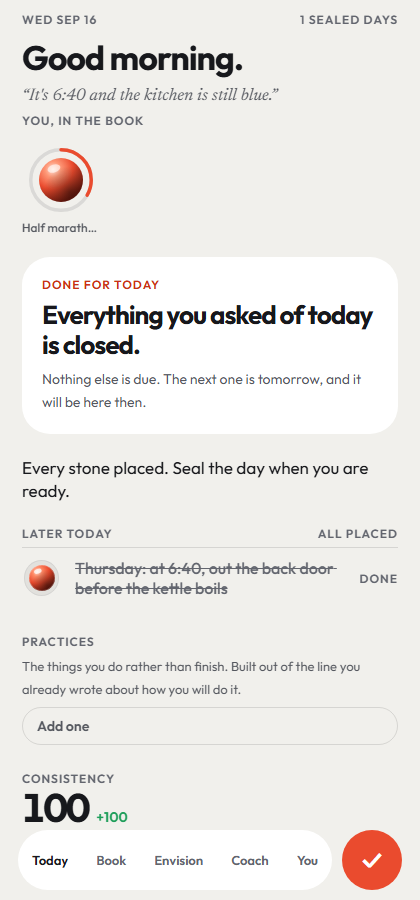
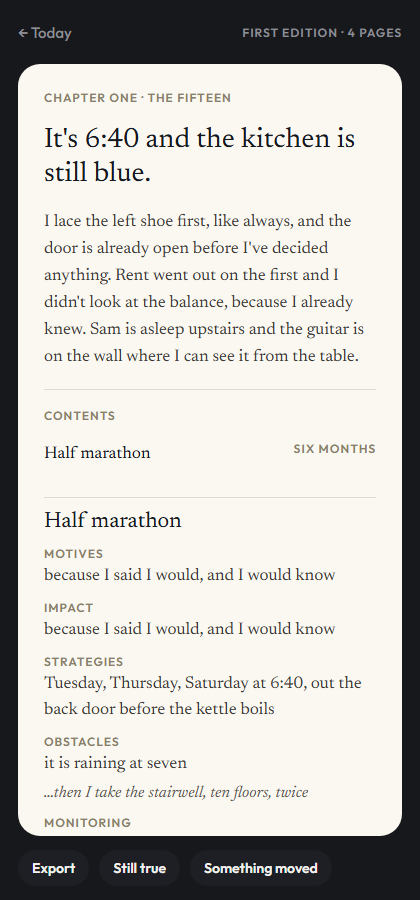
The hold control: a keyboard could not seal, and reduced motion lied
Two findings against my own repair, both confirmed in the browser rather than
argued about.

A keyboard could not seal a Book at all. Pressing Enter on the focused bar did
nothing. react-native-web turns an Enter press into the same press-in,
press-out, press sequence a finger produces, so the guard I added to tell a
finger from an assistive activation could not tell them apart and swallowed the
one route a keyboard user has. It now listens for a real key event on the DOM
node, because a key event carries no pointer and settles the question instead of
inferring it. The end-to-end suite seals the Book from the keyboard before any
pointer touches the control, and it failed before this and passes after.

Reduced motion showed people the opposite of what was happening. Easing.step0
returns 1 for every instant after zero, so the bar filled completely on the
first frame while the timer ran the full 1.6 seconds underneath: you saw a
finished bar, let go, and the seal drained silently. What that setting asks us
to drop is the travelling edge, not the information, so the bar now moves in
four discrete jumps and still says how much longer to hold.

pnpm verify: 138 core, 30 contrast, 6 storage, 57 e2e.

diff --git a/packages/ui/src/primitives.tsx b/packages/ui/src/primitives.tsx
@@ -437,10 +437,27 @@ export function HoldBar({
     if (completed.current) return;
     setHolding(true);
     // Reduced motion still needs the hold, or the gesture stops meaning
-    // anything. What it drops is the sweep: the bar steps rather than glides,
-    // so there is no travelling edge to follow.
+    // anything, and it still needs to SHOW the hold, or there is nothing on
+    // screen saying how much longer to keep pressing.
+    //
+    // `Easing.step0` was the wrong tool: it returns 1 for every t above zero,
+    // so the bar filled completely on the first frame while the timer ran the
+    // full 1.6 seconds underneath. A reduced-motion person saw a finished bar,
+    // let go, and the seal silently drained — they were shown the opposite of
+    // what was happening. What that setting asks us to drop is the travelling
+    // edge, not the information, so the bar now moves in four discrete jumps.
+    const steps = 4;
     anim.current = reducedMotion
-      ? Animated.timing(fill, { toValue: 1, duration: durationMs, useNativeDriver: false, easing: Easing.step0 })
+      ? Animated.sequence(
+          Array.from({ length: steps }, (_, i) =>
+            Animated.timing(fill, {
+              toValue: (i + 1) / steps,
+              duration: durationMs / steps,
+              useNativeDriver: false,
+              easing: Easing.step1,
+            }),
+          ),
+        )
       : Animated.timing(fill, { toValue: 1, duration: durationMs, useNativeDriver: false, easing: Easing.linear });
     anim.current.start(({ finished }: { finished: boolean }) => {
       if (finished && !completed.current) {
@@ -485,6 +502,8 @@ export function HoldBar({
    */
   const pointerDown = useRef(false);
   const pointerTimer = useRef<ReturnType<typeof setTimeout> | null>(null);
+  const barRef = useRef<unknown>(null);
+  const sealDirectlyRef = useRef<() => void>(() => undefined);
 
   useEffect(
     () => () => {
@@ -493,10 +512,43 @@ export function HoldBar({
     [],
   );
 
+  /**
+   * Keyboard, heard directly rather than inferred.
+   *
+   * react-native-web turns an Enter press into the same onPressIn / onPressOut
+   * / onPress sequence a finger produces, so the guard that tells a finger from
+   * an assistive activation cannot tell them apart at all — it saw a pointer
+   * sequence and swallowed the only route a keyboard user has to seal their
+   * Book. Verified in the browser: before this, Enter on a focused bar did
+   * nothing whatsoever.
+   *
+   * A real key event carries no pointer, so listening for it on the DOM node
+   * settles the question instead of guessing at it.
+   */
+  useEffect(() => {
+    if (Platform.OS !== 'web') return;
+    const node = barRef.current as { addEventListener?: (t: string, f: (e: unknown) => void) => void; removeEventListener?: (t: string, f: (e: unknown) => void) => void } | null;
+    if (!node?.addEventListener) return;
+    const onKey = (raw: unknown) => {
+      const e = raw as { key?: string; preventDefault?: () => void; repeat?: boolean };
+      if (e.repeat) return;
+      if (e.key !== 'Enter' && e.key !== ' ' && e.key !== 'Spacebar') return;
+      e.preventDefault?.();
+      sealDirectlyRef.current();
+    };
+    node.addEventListener('keydown', onKey);
+    return () => node.removeEventListener?.('keydown', onKey);
+  }, []);
+
+  sealDirectlyRef.current = sealDirectly;
+
   const width = fill.interpolate({ inputRange: [0, 1], outputRange: ['2%', '100%'] });
 
   return (
     <Pressable
+      ref={(node) => {
+        barRef.current = node;
+      }}
       testID={testID}
       onPressIn={() => {
         if (pointerTimer.current) clearTimeout(pointerTimer.current);
